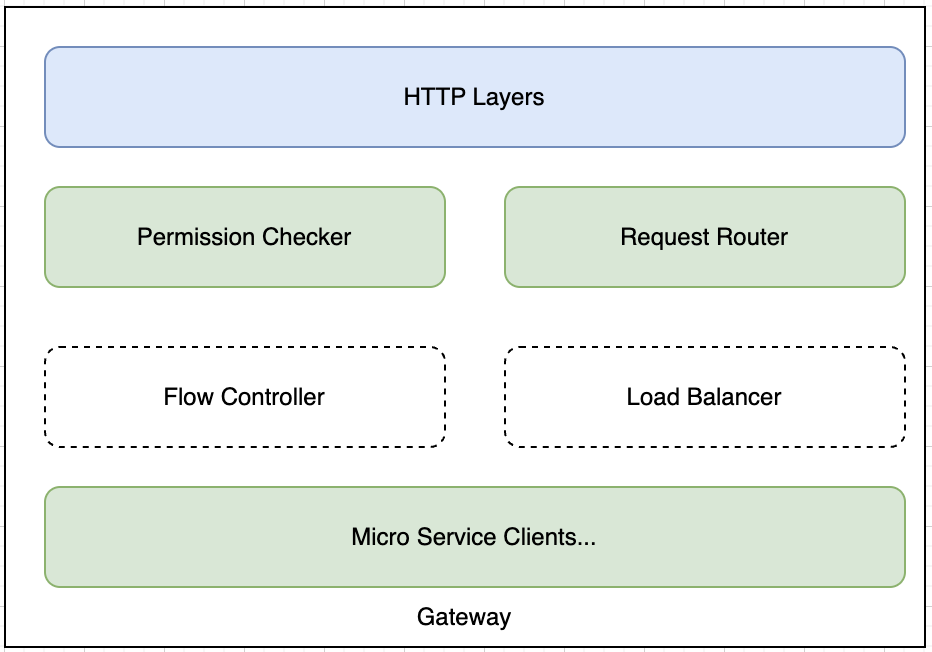
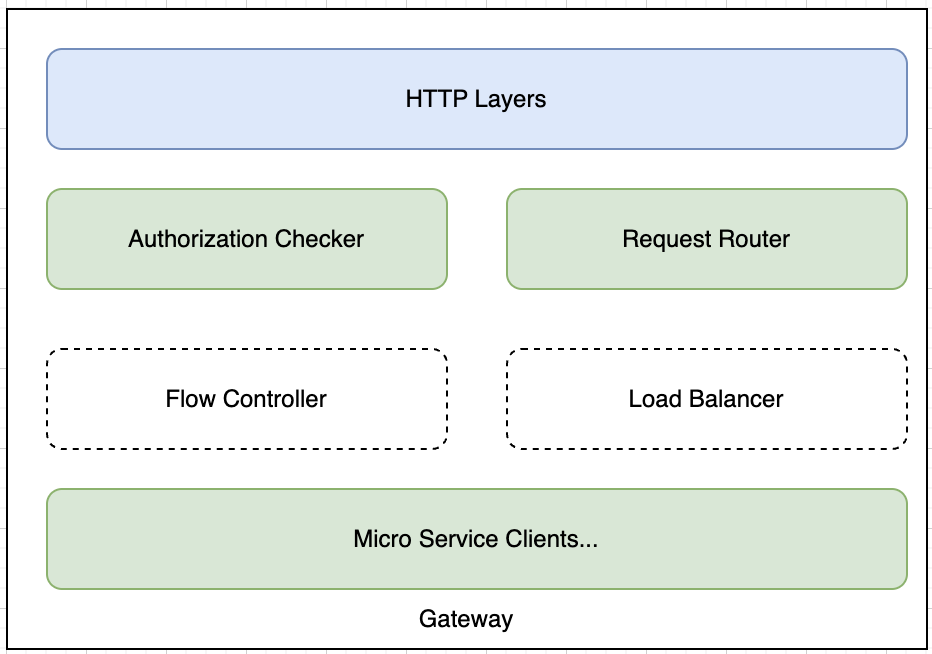
docs: refine challenge/downloader/gateway docs

diff --git a/src/guide/storage-provider/services/challenge.md b/src/guide/storage-provider/services/challenge.md
@@ -4,7 +4,12 @@ order: 10
 ---
 
 # Challenge
-The challenge module is responsible for obtaining the data and hash information of the challenge piece.
+It is always the first priority of any decentralized storage network to guarantee data integrity and availability.
+We use data challenge instead of storage proof to get better HA. There will be some data challenges to random
+pieces on greenfield chain continuously. And the SP, which stores the challenged piece, uses the challenge workflow
+to response. Each SP splits the object payload data to segments, and store segment data to piece store and store
+segment checksum to SP DB.
+
 ## Overview
 <div align=center><img src="../../..//asset/07-SP-Challenge.jpg" width="700px"></div>
 <div align="center"><i>Challenge Architecture</i></div>
@@ -20,6 +25,12 @@ Query the integrity hash and Piece Hash information stored in this SP for the co
 
 ### SP DB Lib
 Lib for accessing the underlying SP DB currently supports MySQL and may adapt to more underlying indexing services in the future.
+
+## Challenge Piece Workflow
+* Receives the Challenge request from the Gateway.
+* Returns all piece data checksums and challenge piece data payload to the Gateway service.
+    * Retrieve all piece data checksums from the SP DB.
+    * Get the challenge piece data from the piece store.
 
 ## protocol
 ### RPC Interface

diff --git a/src/guide/storage-provider/services/gateway.md b/src/guide/storage-provider/services/gateway.md
@@ -11,9 +11,10 @@ If you are interested in the specific programming interface, we invite you to th
 <div align=center><img src="../../..//asset/05-SP-Gateway.jpg" width="700px"></div>
 <div align="center"><i>Gateway Architecture</i></div>
 
-### Permission Checker
-According to the Authorization information, obtain the user information and check whether the corresponding user 
-has the relevant action permission on the corresponding resource.
+### Authorization Checker
+* Verifies the signature of request to ensure that the request has not been tampered with.
+* Checks the authorization to ensure the corresponding account has permissions on resources.
+* Checks the object state and payment account state to ensure the object is sealed and the payment account is active.
 
 ### Request Router
 According to the type of specific request, it is forwarded to the corresponding backend microservice.

diff --git a/src/guide/storage-provider/services/downloader.md b/src/guide/storage-provider/services/downloader.md
@@ -28,6 +28,13 @@ Provide Bucket Quota query interface and bill detail interface, and may provide 
 ### SP DB Lib
 Lib for accessing the underlying SP DB currently supports MySQL and may adapt to more underlying indexing services in the future.
 
+## GetObject Workflow
+* Receives the GetObject request from the Gateway service.
+* Check whether the read traffic exceeds the quota.
+    * If exceeds the quota, the Downloader refuses to serve and returns a not-enough-quota error to the Gateway.
+    * If the quota is sufficient, the Downloader inserts read record into the SP traffic-db.
+* Splits the GetObject request info the GetPiece requests(support range read) to get piece payload data, 
+and returns the object payload data streaming to the Gateway.
 
 ## Protocol
 ### RPC Interface
